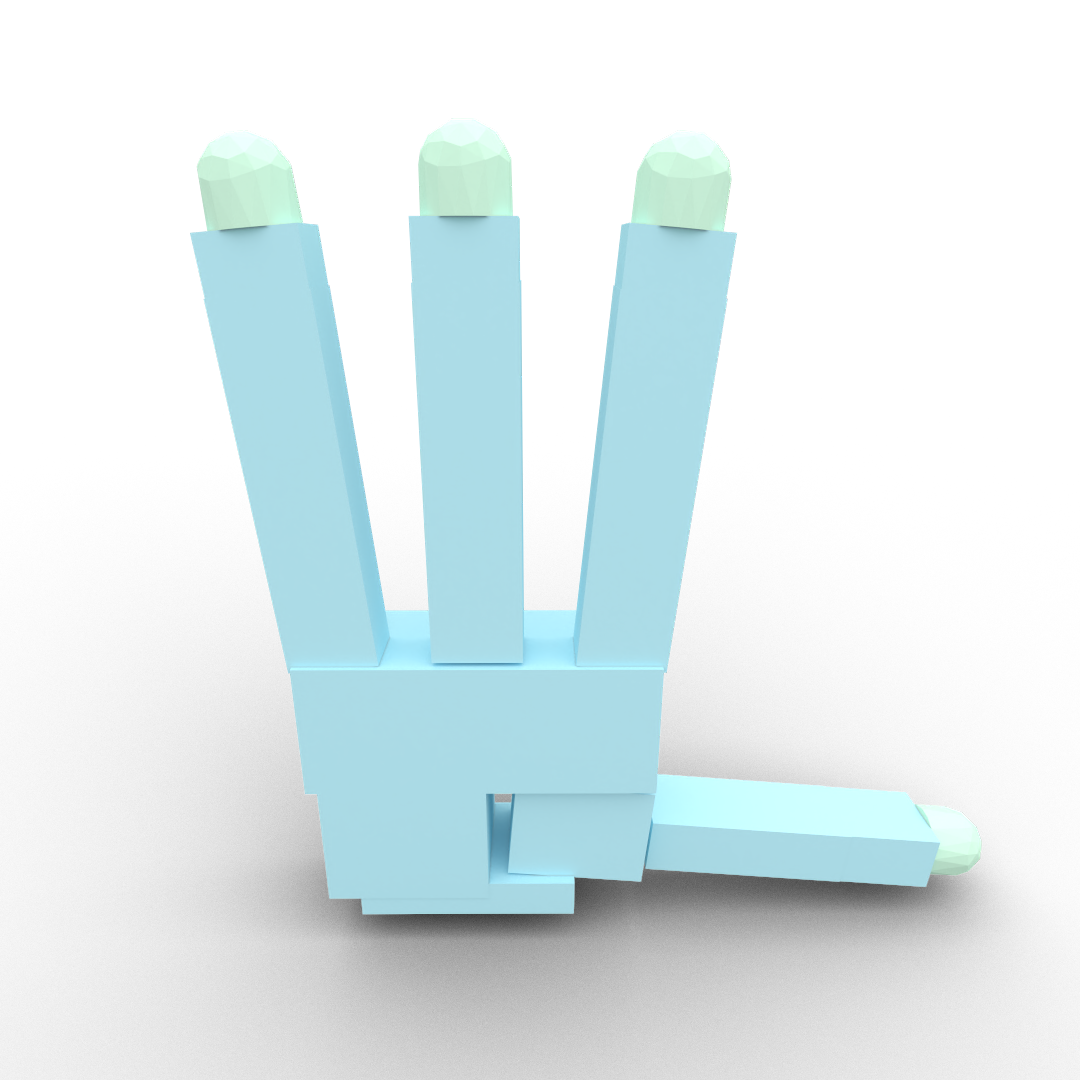
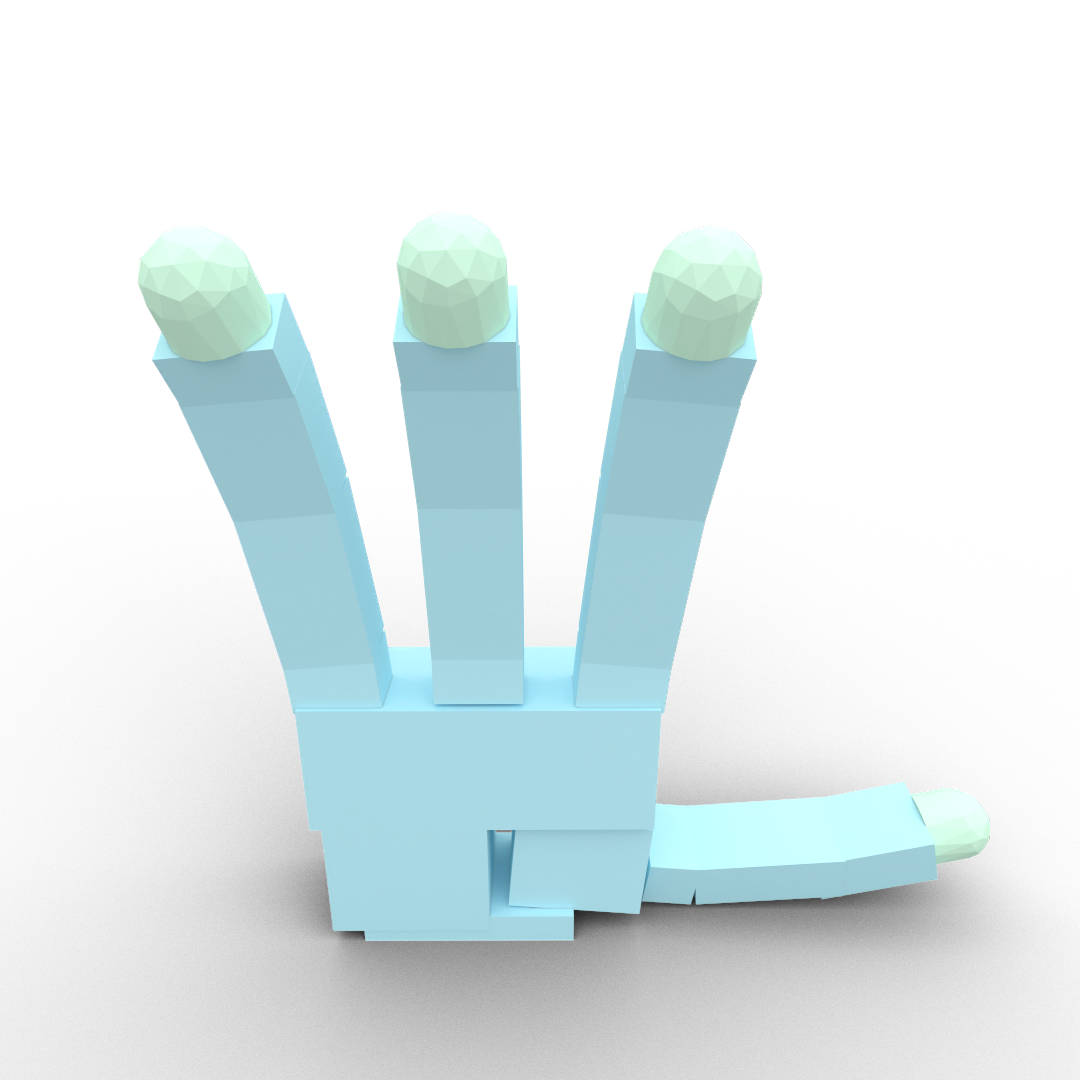
[update] update allegro figure

Changed region(s): [[0.1222, 0.1222, 0.7028, 0.6722], [0.3056, 0.7028, 0.9167, 0.8861], [0.275, 0.7333, 0.3056, 0.7639]]

diff --git a/tools/generate_urdf_collision_figure_sapien.py b/tools/generate_urdf_collision_figure_sapien.py
@@ -139,7 +139,9 @@ def render_urdf(urdf_path, fix_root, disable_self_collision, headless, output_im
     elif "dclaw" in urdf_path:
         robot.set_pose(sapien.Pose([0, 0, -0.15], [0.9659258, 0, 0, 0.258819]))
     elif "allegro" in urdf_path:
-        robot.set_pose(sapien.Pose([0, 0, -0.05]))
+        robot.set_pose(sapien.Pose([0, 0, -0.07]))
+        qpos += np.ones(robot.dof) * 0.2
+        qpos[[0, 4, 8, 12]] = 0
     elif "bhand" in urdf_path:
         robot.set_pose(sapien.Pose([0, 0, -0.15]))
         qpos = np.array([0, -1, 0, 0, -1, 0, -1, 0])
